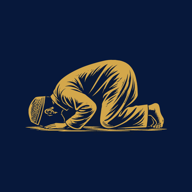
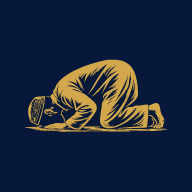
v2.27.72: finalne app ikonice (192/512 full-bleed) + watermark fino podešavanje

Changed region(s): [[0.125, 0.3125, 0.875, 0.6875]]

diff --git a/index.html b/index.html
@@ -892,8 +892,8 @@ main{flex:1;overflow:hidden;position:relative}
 /* v2.27.71: diskretan Divan watermark u donjem desnom uglu countdown kartice —
    blijed (6%), djelimično van ivice (overflow:hidden ga kropuje), iza sadržaja. */
 .danas-cd-watermark{
-  position:absolute;right:-16px;bottom:-3px;  /* v2.27.71: na pola između prve (-12) i podignute (6) verzije */
-  width:99px;height:99px;  /* v2.27.71: -5% */
+  position:absolute;right:-16px;bottom:-5px;  /* v2.27.72: -8→-5 (3px gore) */
+  width:92px;height:92px;  /* v2.27.72: tick manji */
[1 lines of base64/hex data omitted]
   opacity:0.06;
   pointer-events:none;

diff --git a/sw.js b/sw.js
@@ -13,7 +13,7 @@
 // Verzija keša se mijenja sa svakom novom verzijom app-a. Stari keš se briše.
 // ════════════════════════════════════════════════════════════════════════════
 
-const CACHE_VERSION = 'mn-v2.27.71';
+const CACHE_VERSION = 'mn-v2.27.72';
 const APP_SHELL_CACHE = `${CACHE_VERSION}-shell`;
 const RUNTIME_CACHE = `${CACHE_VERSION}-runtime`;
 
